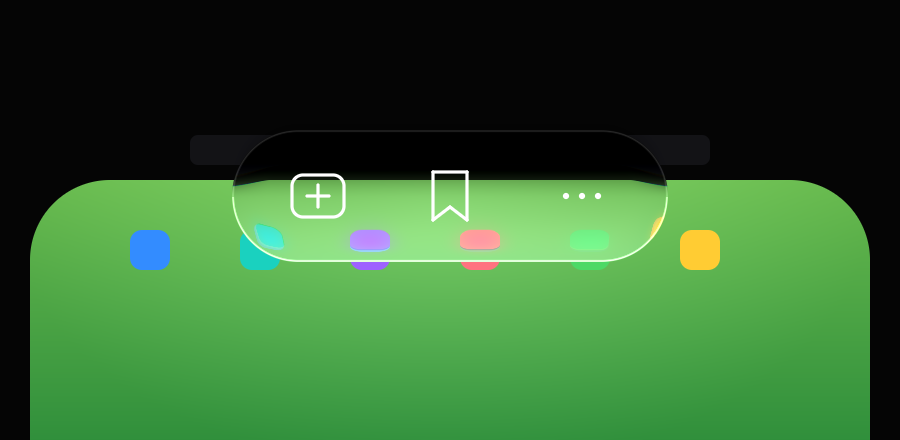
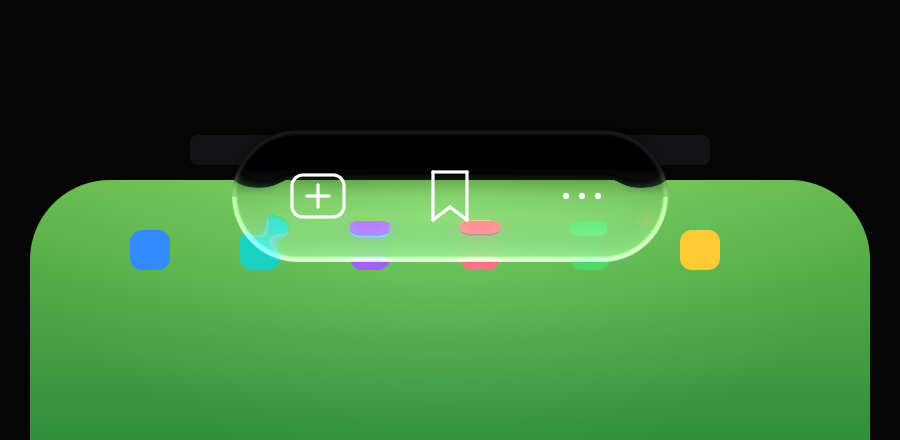
Soften liquid-glass edge refraction
The bend peaked right at the rim, creating a hard seam. Use a smooth
sine bump that's 0 at the very edge (continuous with the world outside),
swells through a wider band (34->46), then fades to 0 in the clear centre.
Also softened/widened the rim highlight and reduced chromatic aberration.

Changed region(s): [[0.2489, 0.3841, 0.7156, 0.6205], [0.6844, 0.3841, 0.7467, 0.5614]]

diff --git a/liquid-glass/glass.js b/liquid-glass/glass.js
@@ -28,9 +28,9 @@
   // bg, blurred, out: RGBA buffers (0..255). cap = {cx,cy,w,h,r}.
   function render(bg, blurred, out, W, H, cap, opts) {
     opts = opts || {};
-    var band   = opts.band   != null ? opts.band   : 34;   // edge refraction width (px)
-    var amount = opts.amount != null ? opts.amount : 40;   // edge bend strength (px)
-    var ca     = opts.ca     != null ? opts.ca     : 0.16; // chromatic aberration
+    var band   = opts.band   != null ? opts.band   : 46;   // edge refraction width (px)
+    var amount = opts.amount != null ? opts.amount : 46;   // edge bend strength (px)
+    var ca     = opts.ca     != null ? opts.ca     : 0.10; // chromatic aberration
     var frost  = opts.frost  != null ? opts.frost  : 0.5;  // blend toward blurred backdrop
     var tintT  = opts.tint   != null ? opts.tint   : 0.06; // milky tint
     var cx = cap.cx, cy = cap.cy, w = cap.w, h = cap.h, r = cap.r;
@@ -50,10 +50,12 @@
         var ny = rrSDF(x, y + 1, cx, cy, w, h, r) - rrSDF(x, y - 1, cx, cy, w, h, r);
         var nl = Math.hypot(nx, ny) || 1; nx /= nl; ny /= nl;
 
-        // depth inside the edge -> bend peaks at the rim, fades to centre
+        // depth inside the edge. SMOOTH bump: bend is 0 right at the rim (so no
+        // hard seam with the world outside), swells through the band, back to 0
+        // in the clear centre. That's the soft bevel look.
         var e = -d;
         var t = clamp(e / band, 0, 1);
-        var mag = amount * Math.pow(1 - t, 1.7);
+        var mag = amount * Math.sin(Math.PI * t) * (0.6 + 0.4 * (1 - t)); // edge-weighted
 
         // refract: sample the backdrop pulled outward along the normal (+CA)
         sample(bg, W, H, x + nx * mag,            y + ny * mag,            pg);
@@ -75,9 +77,9 @@
         var add = shade > 0 ? shade * 42 : shade * 70;
         R = clamp(R + add, 0, 255); G = clamp(G + add, 0, 255); B = clamp(B + add, 0, 255);
 
-        // bright rim + thin top edge highlight
-        var rim = clamp(1 - Math.abs(d + 1.0) / 1.6, 0, 1);
-        var rimGlow = rim * (v > 0.5 ? 120 : 40);
+        // bright rim — softer/wider so it doesn't read as a hard line
+        var rim = clamp(1 - Math.abs(d + 2.2) / 4.0, 0, 1);
+        var rimGlow = rim * (v > 0.5 ? 85 : 28);
         R = clamp(R + rimGlow, 0, 255); G = clamp(G + rimGlow, 0, 255); B = clamp(B + rimGlow, 0, 255);
 
         var alpha = clamp(-d + 0.5, 0, 1) * 255;
